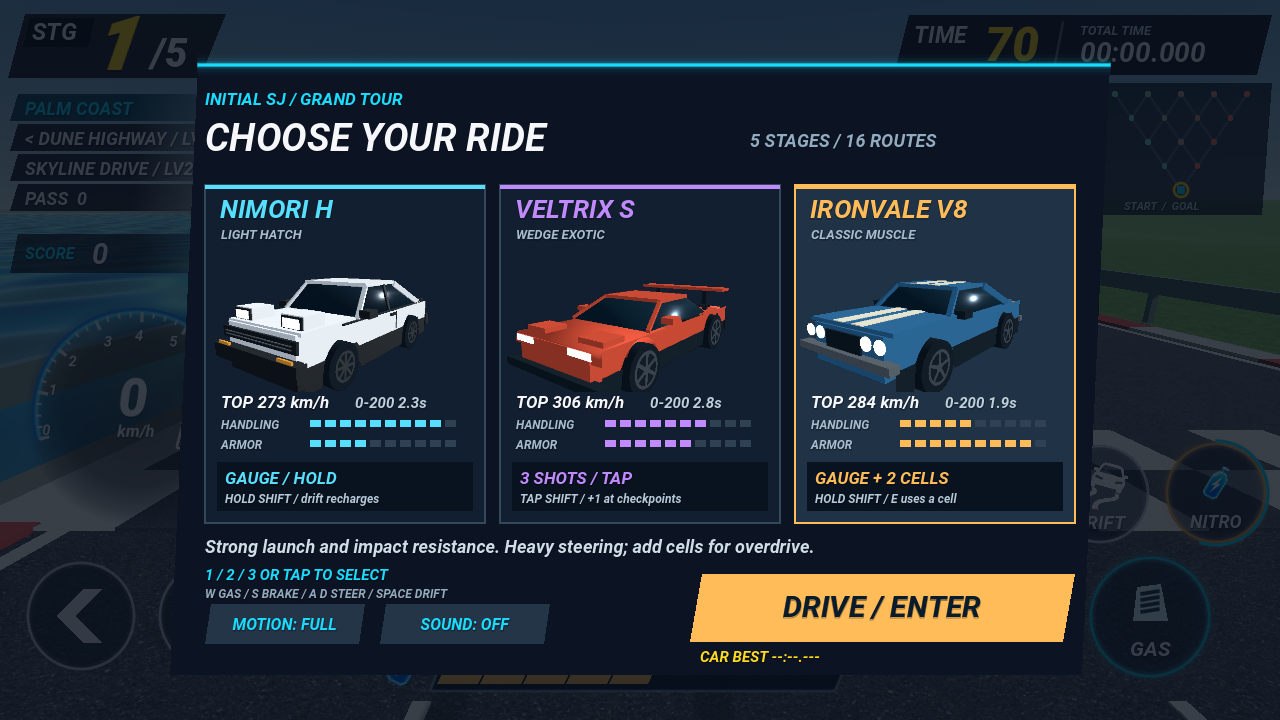
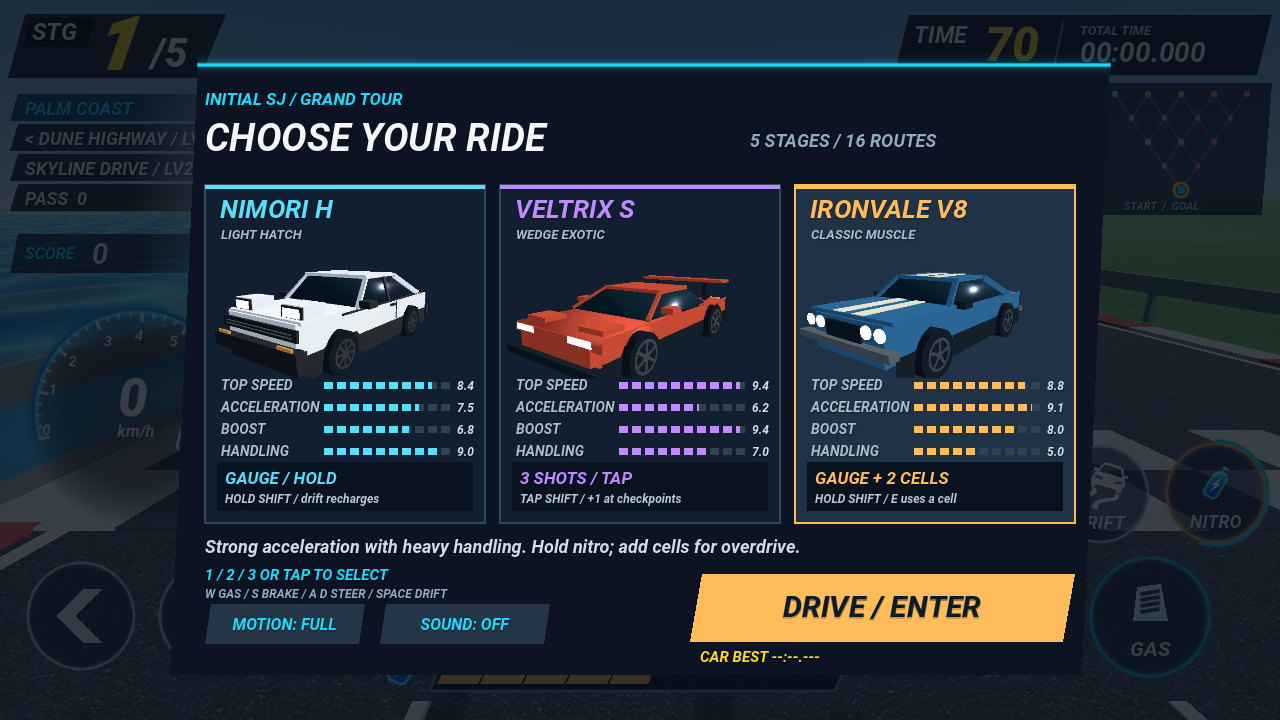
Use top speed, acceleration, boost and handling as the four vehicle abilities

diff --git a/new/docs/TOUR.md b/new/docs/TOUR.md
@@ -24,6 +24,8 @@ Six archetypes use batched geometry: low brick blocks, glass high-rises, stepped
 
 Normal driving emits no pollen, dust or confetti. Tire smoke is limited to drifting, sparks to collisions, celebration confetti to one-shot checkpoint/goal events, and the vehicle-colored exhaust effect to active nitro. Reduced motion disables celebrations, scenery blur, speed lines and extra camera motion; collision sparks use fewer particles.
 
+The garage exposes exactly four abilities: top speed, acceleration, boost and handling. Its shared ten-point bars derive speed/acceleration/boost from actual driving values; boost rates nitro acceleration. Nitro resource type is a separate mechanic. Collision speed-loss factors are identical for all vehicles.
+
 Vehicle profiles live in `vehicle_catalog.gd`: Nimori cruises at 273.6 km/h and boosts to 334.8; Veltrix cruises at 306 and fires 385.2 km/h shots; Ironvale cruises at 284.4, holds gauge boost at 331.2 and reaches 367.2 with a cell. Slipstream adds up to 28.8 km/h to cruise. Actual attained speed depends on acceleration, cornering and traffic.
 
 Nimori holds Shift/NITRO to drain 19 fuel/s, recharging 3/s normally or 9/s drifting. Veltrix starts with three 2.4 s prepaid shots, triggered once per tap. Ironvale holds Shift for a 24 fuel/s gauge or presses E/CELL for an independent 1.6 s overdrive (two cells). Hybrid recharge is 2/s normally, 7/s drifting. Overdrive does not drain gauge fuel. Every checkpoint restores one shot/cell up to capacity and adds 25 gauge fuel; close passes add 12. Gauge lockout ends at 12 units.
@@ -37,7 +39,7 @@ Starting time is 70 s. Checkpoints add 60 minus twice the accumulated number of 
 - `tests/race_test.gd`: open roads, fork/world-position continuity, actual changing mesh widths, upward map orientation, nitro acceleration/fuel/brake override/lockout, sparse canopies, long tunnel coverage, denser hard-route traffic, road difficulty and resized touch controls.
 - `tests/contact_review.gd`: independent world-space polygon intersections after actual collision resolution on bends, across lane positions and drift angles.
 - `tests/tour_review.gd`: braking/drifting/planned nitro controllers finish left, right and mixed Nimori routes, and all-right routes in Veltrix and Ironvale. The gas-only controller times out in stage two. These are scripted simulations, not human playtest timings. Raw results: `tour-metrics.json`.
-- `tests/garage_review.gd` / `garage_checks.gd`: three-car selection, resized touch regions, different acceleration/armor, gauge/shot/hybrid resource rules, checkpoint refill and the P2/P3 regressions in [CODE_REVIEW.md](CODE_REVIEW.md). The main `race_test.gd` also invokes this suite for CI.
+- `tests/garage_review.gd` / `garage_checks.gd`: three-car selection, resized touch regions, different acceleration and uniform collision loss, gauge/shot/hybrid resource rules, checkpoint refill and the P2/P3 regressions in [CODE_REVIEW.md](CODE_REVIEW.md). The main `race_test.gd` also invokes this suite for CI.
 - `tests/keyboard_review.gd`: real input events for gas, braking, brake-tap drift and Shift nitro.
 - `tests/preview_tour.gd`: controlled rendered fixtures; pass scene names after `--` to review selected views. New views include `long-tunnel`, `narrow`, `wide`, `city`, `canopy`, `speed` and `fork`.
 - `tests/touch_review.cjs`: actual exported-game touch controls in Chromium's landscape phone emulation. It does not measure a physical phone.

diff --git a/new/README.md b/new/README.md
@@ -4,13 +4,13 @@ OutRun 2006을 참고한 **3D 오픈 로드 아케이드 투어**입니다. 한 
 
 [웹에서 플레이](https://obmaz.github.io/initialsj/new/) · [구현과 검증](docs/TOUR.md) · [P2/P3 코드 리뷰](docs/CODE_REVIEW.md) · [레퍼런스 자료](docs/OUTRUN_REFERENCE.md)
 
-시작 화면에서 서로 다른 3D 차량 3대 중 하나를 선택합니다. 제품 내 차량명과 배지는 가상의 이름을 사용합니다.
+시작 화면에서 서로 다른 3D 차량 3대 중 하나를 선택합니다. 제품 내 차량명과 배지는 가상의 이름을 사용합니다. 차량 능력치는 **최고속도·가속도·부스트·핸들링** 네 가지이며, 모든 차량에 동일한 기준의 10점 막대로 표시합니다. 부스트 능력치는 니트로 가속 성능을 나타내고, 게이지·횟수·하이브리드 방식은 별도로 표시합니다. 충돌 감속은 공통이며 방어력 능력치는 없습니다.
 
 | 차량 | 주행 성격 | 니트로 |
 | --- | --- | --- |
 | NIMORI H | 흰색 해치백, 빠른 조향과 넉넉한 드리프트 그립 | Shift를 누르는 동안 게이지 소비, 드리프트로 회복 |
 | VELTRIX S | 낮고 각진 스포츠카, 높은 최고속도 | Shift를 한 번 눌러 2.4초 사용, 3회 보유 |
-| IRONVALE V8 | 클래식 머슬카, 강한 가속과 충돌 저항, 무거운 조향 | Shift 게이지 + E로 1.6초 오버드라이브, 셀 2개 |
+| IRONVALE V8 | 클래식 머슬카, 강한 가속, 무거운 조향 | Shift 게이지 + E로 1.6초 오버드라이브, 셀 2개 |
 
 횟수형 니트로와 셀은 체크포인트에서 1개씩 회복합니다. 청록·보라·주황 배기 효과와 전용 게이지·횟수 표시로 구분합니다. 선택 화면에서 실제 차량 모델과 능력치를 비교할 수 있고, 최고 기록은 차량별로 따로 저장합니다.
 

diff --git a/new/docs/CODE_REVIEW.md b/new/docs/CODE_REVIEW.md
@@ -12,10 +12,14 @@ No P0/P1 issue was identified in this scoped review. This is not a claim that ev
 
 ## Vehicle implementation checks
 
-- Three real 3D bodies with fictional product names, separate acceleration, grip, steering, braking, impact loss and best-time keys.
+- Three real 3D bodies with fictional product names, separate acceleration, grip, steering, braking and best-time keys.
 - Hold gauge, three edge-triggered prepaid shots, and gauge plus two independent overdrive cells. Holding cannot spend successive shots/cells. Brake/drift/impact cancels a burst without refund. Checkpoints restore one shot/cell up to capacity.
 - Three-card selection and start hit regions verified at 1280×720, phone landscape 896×414, and portrait 390×844. Selection is blocked during a tour.
 - `race_test.gd` runs the shared `garage_checks.gd` regression suite, so the existing CI checks include these cases without changing root workflows.
 - Existing world-space collision review passes 144 cases, maximum residual overlap 0.002 m².
 - Scripted driving finishes the hardest all-right route with each car. These are controller simulations, not human playtest times; see `tour-metrics.json`.
 - Native keyboard and exported Chromium touch checks cover selection and driving. Browser emulation does not establish physical-phone performance.
+
+## Four-ability revision
+
+Vehicle cards now compare exactly top speed, acceleration, boost and handling on a common ten-point scale. Nitro activation/resource types remain separate. Armor and per-car impact-loss multipliers were removed; collision tests now require equal speed loss for identical impacts. The ability bars derive speed, acceleration and boost from driving parameters, with handling using the existing profile rating.
